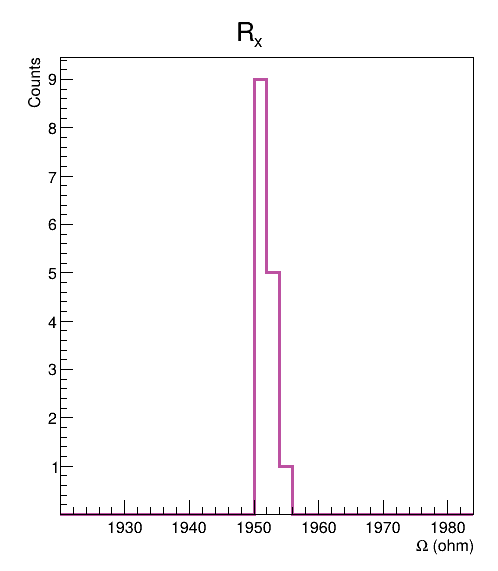
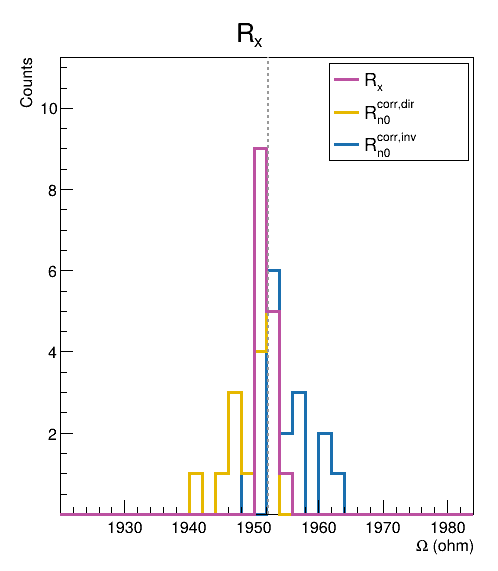
update

diff --git a/root/isto.cpp b/root/isto.cpp
@@ -11,6 +11,7 @@
 #include <TFile.h>
 #include <TMath.h>
 #include <TLine.h>
+#include <TLegend.h>
 #include <TApplication.h>
 
 #include <vector>
@@ -22,55 +23,62 @@
 #include <TSystem.h>
 
 // ===== Costanti per range personalizzato asse X =====
-// Imposta USER_XMIN e USER_XMAX a valori diversi da -1 per forzare un range personalizzato.
-// Se lasci a -1, il range viene calcolato automaticamente dai dati.
-const Double_t USER_XMIN = 1920;  // Minimo asse X
-const Double_t USER_XMAX = 1984;  // Massimo asse X
+const Double_t USER_XMIN = 1920;
+const Double_t USER_XMAX = 1984;
 
 // ===== Costante per massimo asse Y =====
-// Imposta USER_YMAX a valore diverso da -1 per forzare un massimo personalizzato.
-// Se lasci a -1, il massimo viene calcolato automaticamente da ROOT.
-const Double_t USER_YMAX = -1;  // Esempio: 10.0 per fissare il massimo a 10
+const Double_t USER_YMAX = -1;
 
 // ===== Costante per larghezza bin =====
-// Imposta BIN_WIDTH a valore >0 per specificare la larghezza desiderata del bin.
-// Se lasci a -1, usa il numero fisso di bin (30).
-const Double_t BIN_WIDTH = 2;  // Esempio: 2.0 per bin di 2 unità
+const Double_t BIN_WIDTH = 2;
 
 // ===== Costanti per dimensioni immagine in pixel =====
 const Int_t IMG_WIDTH  = 500;
 const Int_t IMG_HEIGHT = 600;
 
+// ===== Costante per linea verticale tratteggiata =====
+const Double_t VLINE_X = 1952.17;
+
 void plotDataZoom() {
   gSystem->Load("libstdc++");
 
   // ===== 1) Dati =====
-  std::vector<Double_t> data = {
+  std::vector<Double_t> data_viola = {
     1954.9, 1953.8, 1952.8, 1952.5, 1951.8,
     1952.0, 1951.7, 1952.4, 1951.9, 1951.7,
     1951.7, 1951.4, 1951.4, 1951.4, 1951.4
   };
 
-  if (data.empty()) {
+  std::vector<Double_t> data_giallo = {
+    1953.0, 1952.3, 1953.0, 1947.7, 1950.8,
+    1951.7, 1947.7, 1944.7, 1951.6, 1952.5,
+    1947.1, 1940.8, 1950.1, 1948.9, 1953.0
+  };
+
+  std::vector<Double_t> data_blu = {
+    1956.9, 1955.4, 1952.6, 1957.3, 1952.8,
+    1952.4, 1955.7, 1960.2, 1952.1, 1960.9,
+    1956.3, 1962.0, 1952.7, 1953.8, 1949.7
+  };
+
+  if (data_viola.empty() || data_giallo.empty() || data_blu.empty()) {
     std::cerr << "Nessun dato.\n";
     return;
   }
 
-  // ===== 2) Statistiche base =====
-  Double_t minv = *std::min_element(data.begin(), data.end());
-  Double_t maxv = *std::max_element(data.begin(), data.end());
+  // ===== 2) Statistiche base (sul dataset viola, per il range) =====
+  Double_t minv = *std::min_element(data_viola.begin(), data_viola.end());
+  Double_t maxv = *std::max_element(data_viola.begin(), data_viola.end());
   Double_t mean = 0, stddev = 0;
   {
     Double_t sum = 0, sum2 = 0;
-    for (auto v : data) { sum += v; sum2 += v * v; }
-    mean = sum / data.size();
-    Double_t var = (sum2 / data.size()) - mean * mean;
+    for (auto v : data_viola) { sum += v; sum2 += v * v; }
+    mean = sum / data_viola.size();
+    Double_t var = (sum2 / data_viola.size()) - mean * mean;
     stddev = (var > 0) ? sqrt(var) : 0.0;
   }
 
   // ===== 3) Binning e range =====
-  // Il range dell'istogramma usa USER_XMIN/USER_XMAX se definiti,
-  // altrimenti viene calcolato automaticamente dai dati.
   const Double_t pad_frac = 0.20;
   const Double_t n_std = 4.0;
 
@@ -98,17 +106,29 @@ void plotDataZoom() {
     if (nbins < 1) nbins = 1;
   }
 
-  TH1D *h = new TH1D("h", "R_{x};#Omega (ohm);Counts", nbins, xmin, xmax);
-  h->SetLineColor(TColor::GetColor("#bc51a1"));
-  h->SetLineWidth(3);
-  h->SetFillStyle(0);
+  // ===== Creazione dei tre istogrammi con lo stesso binning =====
+  TH1D *h_viola  = new TH1D("h_viola",  "R_{x};#Omega (ohm);Counts", nbins, xmin, xmax);
+  TH1D *h_giallo = new TH1D("h_giallo", "R_{x};#Omega (ohm);Counts", nbins, xmin, xmax);
+  TH1D *h_blu    = new TH1D("h_blu",    "R_{x};#Omega (ohm);Counts", nbins, xmin, xmax);
 
-  for (auto v : data) h->Fill(v);
+  // Stile viola
+  h_viola->SetLineColor(TColor::GetColor("#bc51a1"));
+  h_viola->SetLineWidth(3);
+  h_viola->SetFillStyle(0);
 
-  Double_t entries   = h->GetEntries();
-  Double_t underflow = h->GetBinContent(0);
-  Double_t overflow  = h->GetBinContent(h->GetNbinsX() + 1);
-  Double_t sigma_percent = (mean != 0.0) ? (stddev / TMath::Abs(mean) * 100.0) : 0.0;
+  // Stile giallo
+  h_giallo->SetLineColor(TColor::GetColor("#e6b800"));
+  h_giallo->SetLineWidth(3);
+  h_giallo->SetFillStyle(0);
+
+  // Stile blu
+  h_blu->SetLineColor(TColor::GetColor("#1a6faf"));
+  h_blu->SetLineWidth(3);
+  h_blu->SetFillStyle(0);
+
+  for (auto v : data_viola)  h_viola->Fill(v);
+  for (auto v : data_giallo) h_giallo->Fill(v);
+  for (auto v : data_blu)    h_blu->Fill(v);
 
   // ===== 4) Canvas e disegno =====
   gStyle->SetOptStat(0);
@@ -116,21 +136,53 @@ void plotDataZoom() {
   c->SetLeftMargin(0.12);
   c->SetRightMargin(0.05);
 
-  // Applica il range visibile sull'asse X se USER_XMIN/USER_XMAX sono definiti
+  // Calcola il massimo tra i tre istogrammi per impostare il range Y
+  Double_t ymax_auto = std::max({ h_viola->GetMaximum(),
+                                   h_giallo->GetMaximum(),
+                                   h_blu->GetMaximum() });
+
+  // Applica range X, massimo Y e label su h_blu (primo disegnato)
   if (USER_XMIN != -1 && USER_XMAX != -1) {
-    h->GetXaxis()->SetRangeUser(USER_XMIN, USER_XMAX);
+    h_blu->GetXaxis()->SetRangeUser(USER_XMIN, USER_XMAX);
+    h_giallo->GetXaxis()->SetRangeUser(USER_XMIN, USER_XMAX);
+    h_viola->GetXaxis()->SetRangeUser(USER_XMIN, USER_XMAX);
   }
 
-  // Applica il massimo personalizzato sull'asse Y se definito
-  if (USER_YMAX != -1) {
-    h->SetMaximum(USER_YMAX);
+  Double_t ymax_finale = (USER_YMAX != -1) ? USER_YMAX : ymax_auto * 1.25;
+  h_blu->SetMaximum(ymax_finale);
+  h_giallo->SetMaximum(ymax_finale);
+  h_viola->SetMaximum(ymax_finale);
+
+  // Nasconde la prima etichetta degli assi X e Y sul primo istogramma disegnato
+  h_blu->GetXaxis()->ChangeLabel(1, -1, 0);
+  h_blu->GetYaxis()->ChangeLabel(1, -1, 0);
+
+  // Disegna: prima blu e giallo (sfondo), poi viola in primo piano
+  h_blu->Draw("HIST");
+  h_giallo->Draw("HIST SAME");
+  h_viola->Draw("HIST SAME");
+
+  // ===== Legenda =====
+  TLegend *leg = new TLegend(0.65, 0.75, 0.93, 0.92);
+  leg->SetBorderSize(1);
+  leg->SetFillStyle(0);
+  leg->SetTextSize(0.032);
+  leg->AddEntry(h_viola,  "R_{x}",             "l");
+  leg->AddEntry(h_giallo, "R_{n0}^{corr,dir}", "l");
+  leg->AddEntry(h_blu,    "R_{n0}^{corr,inv}", "l");
+  leg->Draw();
+
+  // ===== Linea verticale tratteggiata =====
+  if (VLINE_X != -1) {
+    c->Update();
+    Double_t ymin = gPad->GetUymin();
+    Double_t ymax = gPad->GetUymax();
+    TLine *vline = new TLine(VLINE_X, ymin, VLINE_X, ymax);
+    vline->SetLineColor(kGray + 1);
+    vline->SetLineWidth(2);
+    vline->SetLineStyle(2);
+    vline->Draw("SAME");
   }
-
-  // Nasconde la prima etichetta degli assi X e Y
-  h->GetXaxis()->ChangeLabel(1, -1, 0);
-  h->GetYaxis()->ChangeLabel(1, -1, 0);
-
-  h->Draw("HIST");
 
   // Aggiorna il canvas
   c->Update();
@@ -139,7 +191,9 @@ void plotDataZoom() {
   // ===== Salvataggio =====
   c->SaveAs("istoRx.png");
   TFile fout("istoRx.root", "RECREATE");
-  h->Write();
+  h_viola->Write();
+  h_giallo->Write();
+  h_blu->Write();
   fout.Close();
   std::cout << "Salvato istoRx.png e istoRx.root ("
             << IMG_WIDTH << "x" << IMG_HEIGHT << " px)." << std::endl;
